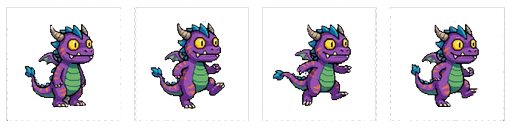
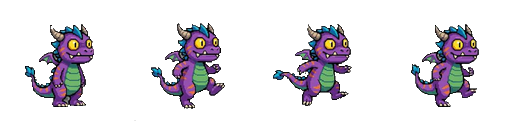
覆蓋用戶修改版本

diff --git a/config.js b/config.js
@@ -1,7 +1,7 @@
 window.GAME_CONFIG = {
   "player": { "image": null, "sprites": { "idle": { "file": "assets/strips/x4_idle_4f.png", "fps": 6 }, "run": { "file": "assets/strips/x4_walk_8f.png", "fps": 12 } }, "size": 66 },
   "enemies": [
-    { "level": 1, "image": null, "sprites": { "idle": { "file": "assets/strips/monster4_idle_4f.png", "fps": 8 } }, "size": 54, "color": "#44ff44", "hp": 12, "speed": 90, "damage": 5 },
+    { "level": 1, "image": null, "sprites": { "idle": { "file": "assets/strips/dragon_8f.png", "fps": 8 } }, "size": 54, "color": "#44ff44", "hp": 12, "speed": 90, "damage": 5 },
     { "level": 2, "image": null, "sprites": { "idle": { "file": "assets/strips/monster2_idle_6f.png", "fps": 8 } }, "size": 38, "color": "#8844aa", "hp": 16, "speed": 108, "damage": 6 },
     { "level": 3, "image": null, "sprites": { "idle": { "file": "assets/strips/enemy_machine_dragon_idle_4f.png", "fps": 8 } }, "size": 44, "color": "#cccccc", "hp": 6, "speed": 72, "damage": 8 },
     { "level": 4, "image": null, "sprites": { "idle": { "file": "assets/strips/monster4_idle_4f.png", "fps": 8 } }, "size": 40, "color": "#88ccff", "hp": 40, "speed": 96, "damage": 7 },